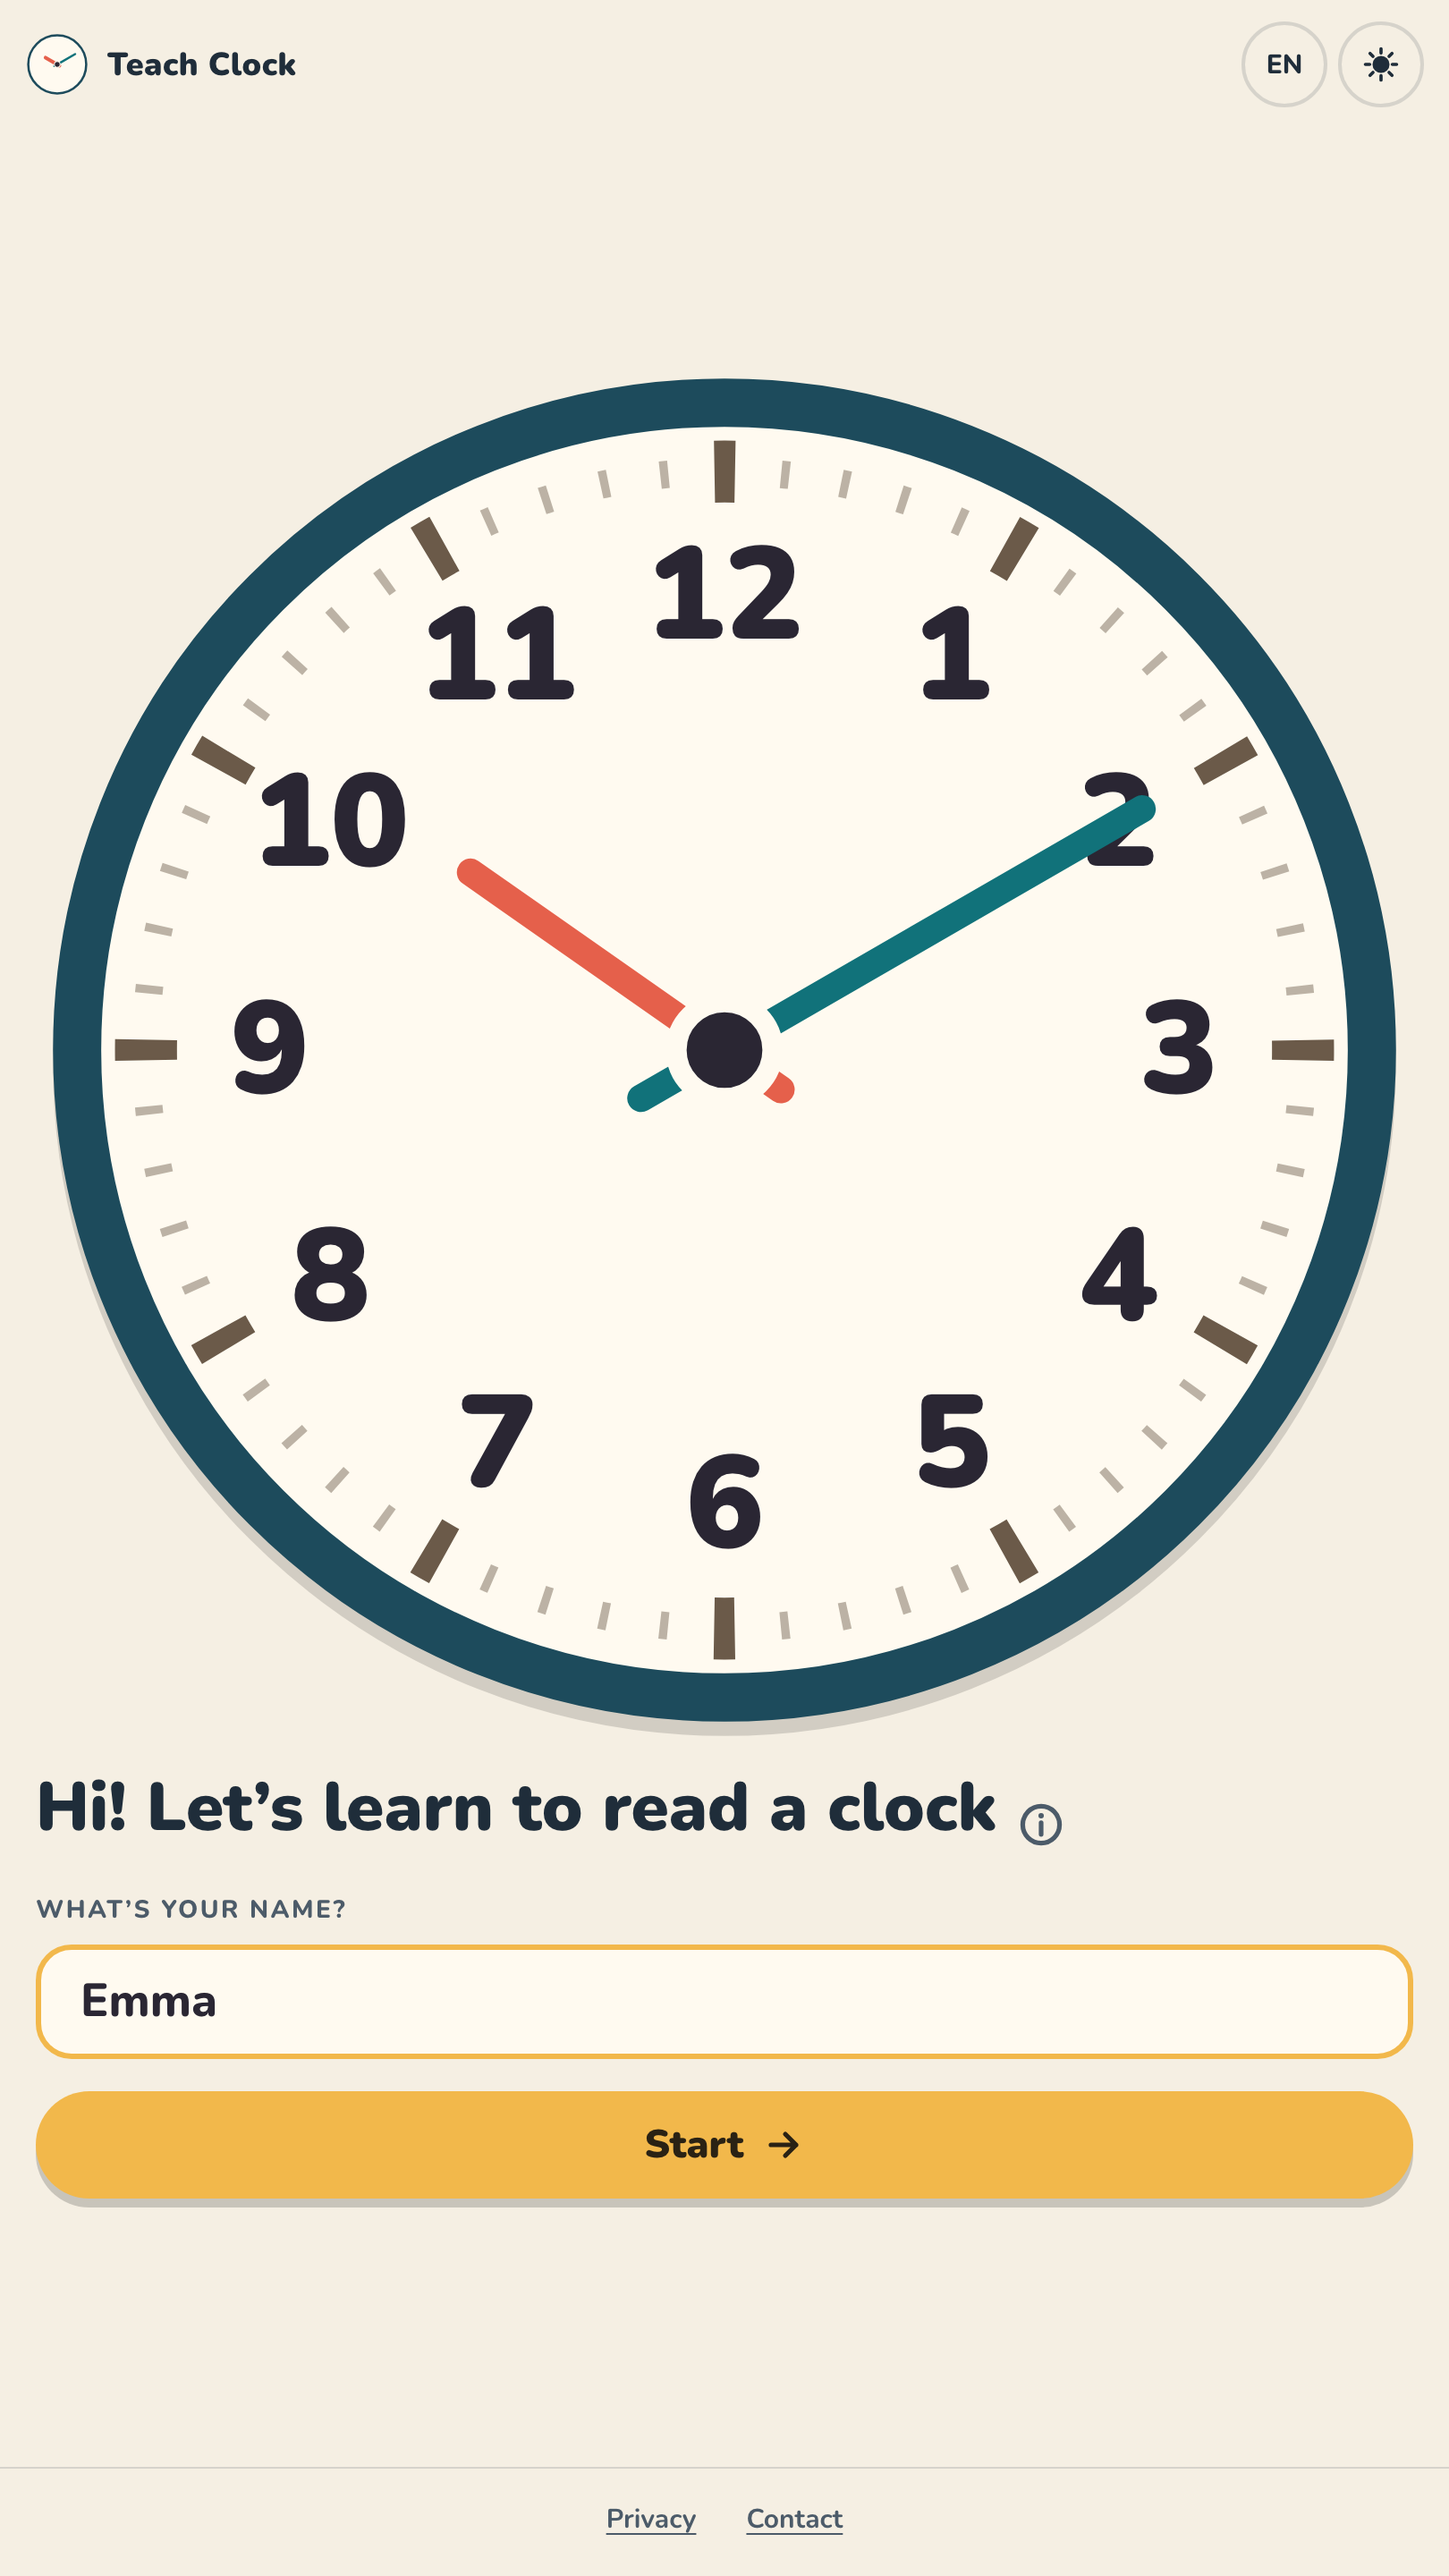
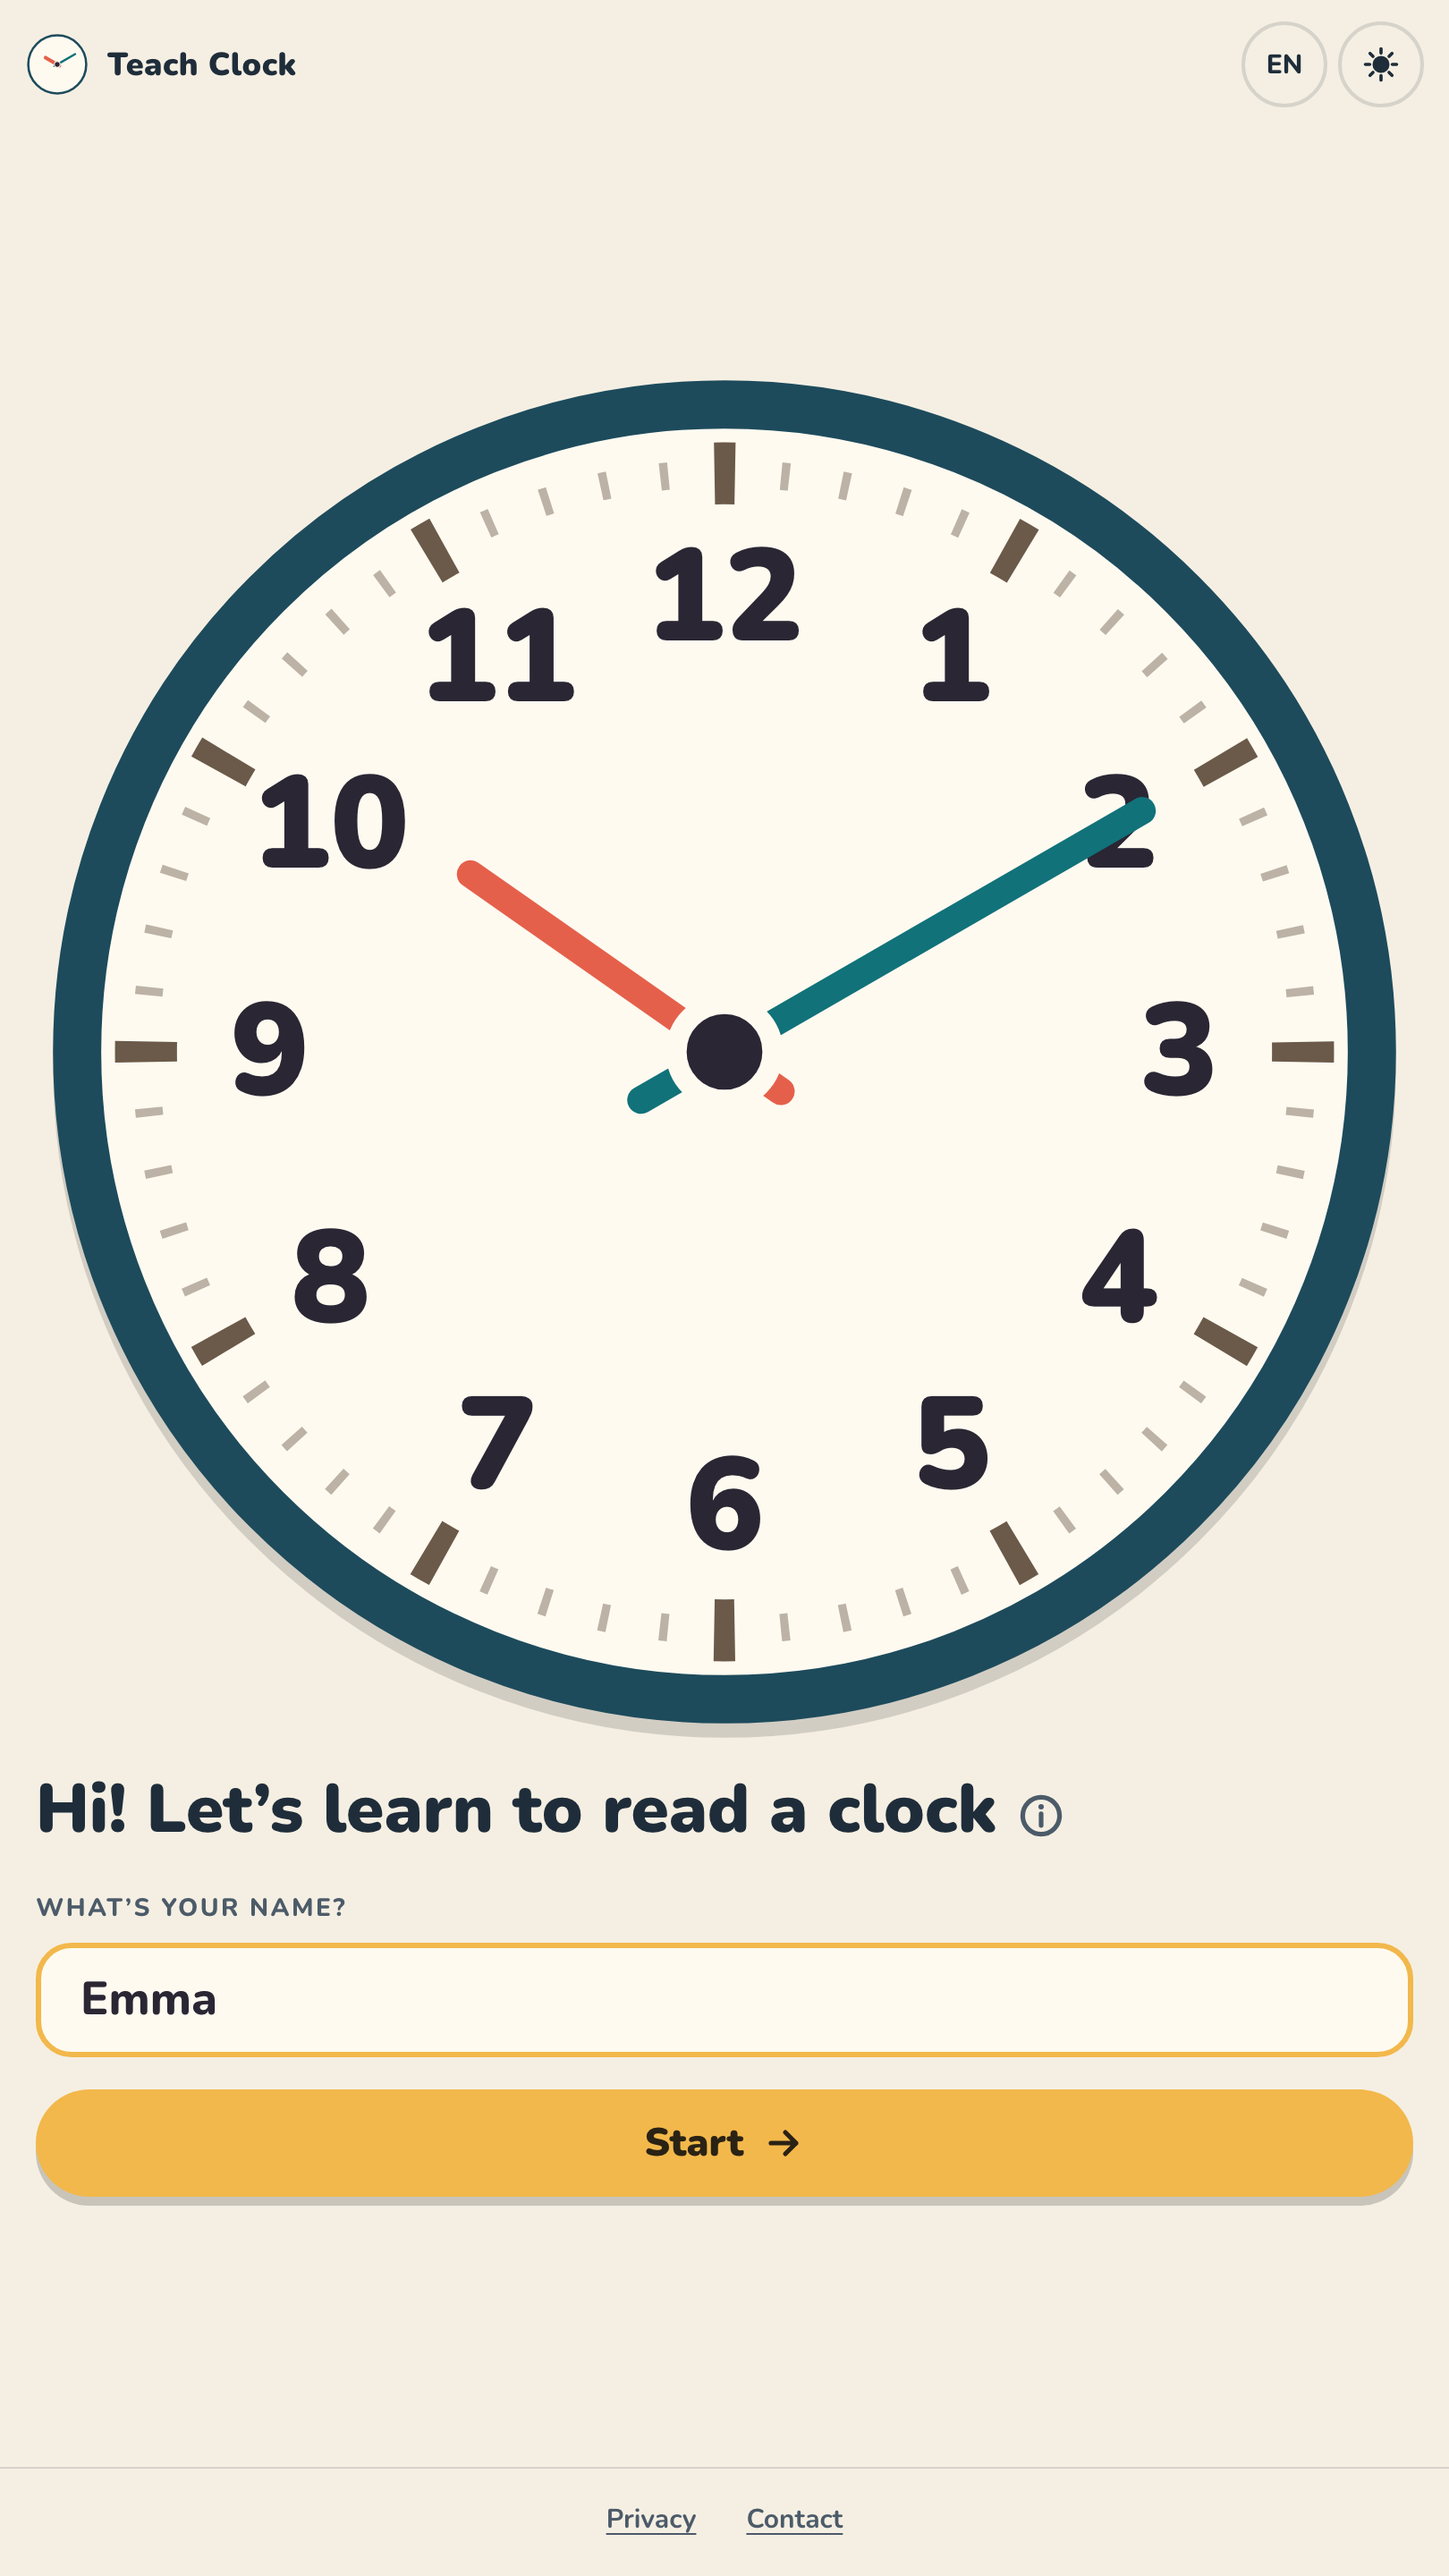
Batch 25: the Welcome ⓘ centred on the heading's last word
On a phone the ⓘ sat 4 px below the middle of the heading's letters: it sits in
.heading beside the inline h1, so vertical-align: middle used .heading's 16 px
body text. .heading now shares the heading's font, so middle is the heading's.
A test measures the ⓘ against the last word's letters in both languages (red
at 4.06 px before). Welcome store screenshots retaken.

diff --git a/e2e/fits-small-phone.spec.ts b/e2e/fits-small-phone.spec.ts
@@ -64,6 +64,28 @@ test.describe('Welcome on a 360 × 640 phone', () => {
     await expect(page.getByLabel(t('welcome.nameLabel'))).toHaveValue('Оля')
     expect(await page.evaluate(() => scrollY)).toBe(0)
   })
+
+  for (const locale of ['uk', 'en']) {
+    test(`the ⓘ is centred on the heading's last word, ${locale}`, async ({ page }) => {
+      await page.addInitScript((value) => localStorage.setItem('teach-clock.locale', value), locale)
+      await page.goto('/')
+      const last = page.locator('.welcome .last')
+      await expect(last).toBeVisible()
+      await page.evaluate(() => document.fonts.ready)
+      // Batch 25: it sat 4 px low, centred on the body text's letters instead of the heading's.
+      const offset = await last.evaluate((word) => {
+        // A box 1ex tall on the word's baseline: its middle is the middle of the lowercase letters.
+        const probe = document.createElement('span')
+        probe.style.cssText = 'display:inline-block;width:0;height:1ex;vertical-align:baseline'
+        word.prepend(probe)
+        const letters = probe.getBoundingClientRect()
+        probe.remove()
+        const ring = document.querySelector('.welcome .info-btn svg circle')!.getBoundingClientRect()
+        return ring.top + ring.height / 2 - (letters.top + letters.height / 2)
+      })
+      expect(Math.abs(offset), 'ⓘ centre against the letters').toBeLessThanOrEqual(1)
+    })
+  }
 })
 
 test('Welcome on a 360 × 640 phone with big text: only <main> scrolls, Start above the Footer', async ({

diff --git a/src/views/WelcomeView.vue b/src/views/WelcomeView.vue
@@ -189,7 +189,15 @@ h1 {
     flex: none;
   }
   /* The ⓘ follows the heading's last word and never wraps away from it: the word keeps a gap
-     the ⓘ's width after it, and the ⓘ is pulled back over that gap. */
+     the ⓘ's width after it, and the ⓘ is pulled back over that gap. The block shares the heading's
+     font, so the ⓘ's `vertical-align: middle` centres it on the heading's letters, not on the
+     body text's (4 px lower, batch 25). */
+  .heading {
+    font-size: clamp(32px, 4.7vw, 48px);
+    font-size: clamp(32px, 4.7cqi, 48px);
+    font-weight: 900;
+    line-height: 1.08;
+  }
   .heading h1 {
     display: inline;
   }
